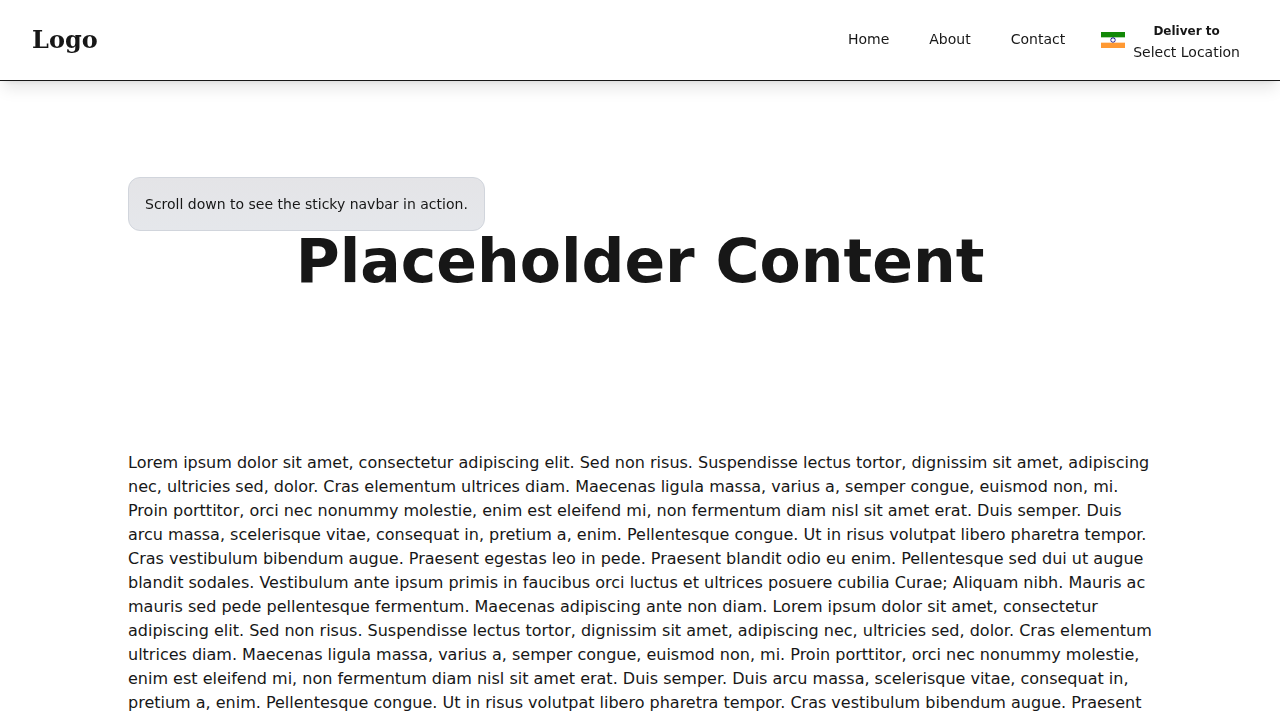
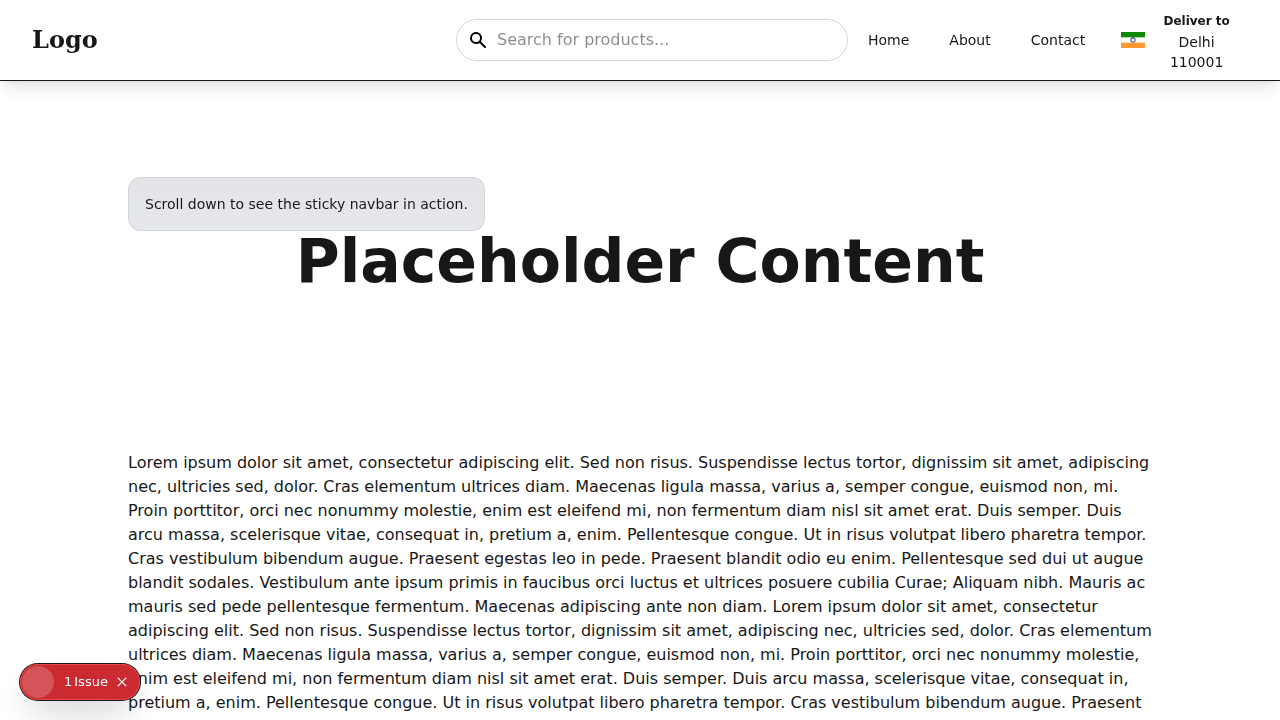
feat: Add centered search bar to navbar
This commit introduces a new centered search bar in the header.

- Adds a new `SearchBar` component with an input field and an inline search icon.
- Refactors the `Navbar` to use a three-section layout (left, center, right) to accommodate the centered search bar on desktop.
- Adds the `SearchBar` to the mobile menu for a better experience on smaller screens.

Changed region(s): [[0.6562, 0.0, 0.9688, 0.0917], [0.0, 0.9167, 0.125, 1.0], [0.375, 0.0306, 0.5, 0.0611]]

diff --git a/frontend/src/components/Navbar.tsx b/frontend/src/components/Navbar.tsx
@@ -3,6 +3,7 @@ import React, { useState } from "react";
 import Logo from "./Logo";
 import Link from "next/link";
 import LocationSelector from "./LocationSelector";
+import SearchBar from "./SearchBar";
 
 const Navbar = () => {
   const [isMobileMenuOpen, setIsMobileMenuOpen] = useState(false);
@@ -11,49 +12,46 @@ const Navbar = () => {
     <nav className="sticky top-0 z-50 w-full bg-beige/40 backdrop-blur-md border-b border-olive-green/20 shadow-lg">
       <div className="max-w-screen-xl mx-auto px-4 sm:px-6 lg:px-8">
         <div className="flex items-center justify-between h-20">
-          <div className="flex-shrink-0">
+          {/* Left Section */}
+          <div className="flex-1 flex items-center">
             <Logo />
           </div>
-          <div className="hidden md:flex items-center space-x-4">
-            <div className="flex items-center space-x-4">
-              <Link
-                href="#"
-                className="text-olive-green hover:text-light-brown px-3 py-2 rounded-md text-sm font-medium"
-              >
-                Home
-              </Link>
-              <Link
-                href="#"
-                className="text-olive-green hover:text-light-brown px-3 py-2 rounded-md text-sm font-medium"
-              >
-                About
-              </Link>
-              <Link
-                href="#"
-                className="text-olive-green hover:text-light-brown px-3 py-2 rounded-md text-sm font-medium"
-              >
-                Contact
-              </Link>
+
+          {/* Center Section */}
+          <div className="flex-1 flex justify-center px-2 lg:ml-6 lg:justify-center">
+            <div className="hidden md:block w-full max-w-md">
+              <SearchBar />
             </div>
-            <LocationSelector />
           </div>
-          <div className="md:hidden flex items-center">
-            <button
-              onClick={() => setIsMobileMenuOpen(!isMobileMenuOpen)}
-              className="inline-flex items-center justify-center p-2 rounded-md text-olive-green hover:text-light-brown hover:bg-gray-100 focus:outline-none focus:ring-2 focus:ring-inset focus:ring-white"
-              aria-expanded="false"
-            >
-              <span className="sr-only">Open main menu</span>
-              {isMobileMenuOpen ? (
-                <svg className="block h-6 w-6" xmlns="http://www.w3.org/2000/svg" fill="none" viewBox="0 0 24 24" stroke="currentColor" aria-hidden="true">
-                  <path strokeLinecap="round" strokeLinejoin="round" strokeWidth="2" d="M6 18L18 6M6 6l12 12" />
-                </svg>
-              ) : (
-                <svg className="block h-6 w-6" xmlns="http://www.w3.org/2000/svg" fill="none" viewBox="0 0 24 24" stroke="currentColor" aria-hidden="true">
-                  <path strokeLinecap="round" strokeLinejoin="round" strokeWidth="2" d="M4 6h16M4 12h16M4 18h16" />
-                </svg>
-              )}
-            </button>
+
+          {/* Right Section */}
+          <div className="flex-1 flex items-center justify-end">
+            <div className="hidden md:flex items-center space-x-4">
+              <div className="flex items-center space-x-4">
+                <Link href="#" className="text-olive-green hover:text-light-brown px-3 py-2 rounded-md text-sm font-medium">Home</Link>
+                <Link href="#" className="text-olive-green hover:text-light-brown px-3 py-2 rounded-md text-sm font-medium">About</Link>
+                <Link href="#" className="text-olive-green hover:text-light-brown px-3 py-2 rounded-md text-sm font-medium">Contact</Link>
+              </div>
+              <LocationSelector />
+            </div>
+            <div className="md:hidden flex items-center">
+              <button
+                onClick={() => setIsMobileMenuOpen(!isMobileMenuOpen)}
+                className="inline-flex items-center justify-center p-2 rounded-md text-olive-green hover:text-light-brown hover:bg-gray-100 focus:outline-none focus:ring-2 focus:ring-inset focus:ring-white"
+                aria-expanded="false"
+              >
+                <span className="sr-only">Open main menu</span>
+                {isMobileMenuOpen ? (
+                  <svg className="block h-6 w-6" xmlns="http://www.w3.org/2000/svg" fill="none" viewBox="0 0 24 24" stroke="currentColor" aria-hidden="true">
+                    <path strokeLinecap="round" strokeLinejoin="round" strokeWidth="2" d="M6 18L18 6M6 6l12 12" />
+                  </svg>
+                ) : (
+                  <svg className="block h-6 w-6" xmlns="http://www.w3.org/2000/svg" fill="none" viewBox="0 0 24 24" stroke="currentColor" aria-hidden="true">
+                    <path strokeLinecap="round" strokeLinejoin="round" strokeWidth="2" d="M4 6h16M4 12h16M4 18h16" />
+                  </svg>
+                )}
+              </button>
+            </div>
           </div>
         </div>
       </div>
@@ -61,24 +59,12 @@ const Navbar = () => {
       {isMobileMenuOpen && (
         <div className="md:hidden">
           <div className="px-2 pt-2 pb-3 space-y-1 sm:px-3">
-            <Link
-              href="#"
-              className="text-olive-green hover:text-light-brown block px-3 py-2 rounded-md text-base font-medium"
-            >
-              Home
-            </Link>
-            <Link
-              href="#"
-              className="text-olive-green hover:text-light-brown block px-3 py-2 rounded-md text-base font-medium"
-            >
-              About
-            </Link>
-            <Link
-              href="#"
-              className="text-olive-green hover:text-light-brown block px-3 py-2 rounded-md text-base font-medium"
-            >
-              Contact
-            </Link>
+            <div className="mb-2">
+              <SearchBar />
+            </div>
+            <Link href="#" className="text-olive-green hover:text-light-brown block px-3 py-2 rounded-md text-base font-medium">Home</Link>
+            <Link href="#" className="text-olive-green hover:text-light-brown block px-3 py-2 rounded-md text-base font-medium">About</Link>
+            <Link href="#" className="text-olive-green hover:text-light-brown block px-3 py-2 rounded-md text-base font-medium">Contact</Link>
           </div>
           <div className="px-2 pt-2 pb-3">
             <LocationSelector />

diff --git a/frontend/src/components/SearchBar.tsx b/frontend/src/components/SearchBar.tsx
@@ -1,0 +1,25 @@
+import React from "react";
+import Image from "next/image";
+
+const SearchBar = () => {
+  return (
+    <div className="relative w-full max-w-md">
+      <div className="absolute inset-y-0 left-0 pl-3 flex items-center pointer-events-none">
+        <Image
+          src="/search-icon.svg"
+          alt="Search"
+          width={20}
+          height={20}
+          className="text-gray-400"
+        />
+      </div>
+      <input
+        type="text"
+        placeholder="Search for products..."
+        className="w-full pl-10 pr-4 py-2 border border-gray-300 rounded-full focus:outline-none focus:ring-2 focus:ring-olive-green/50"
+      />
+    </div>
+  );
+};
+
+export default SearchBar;
